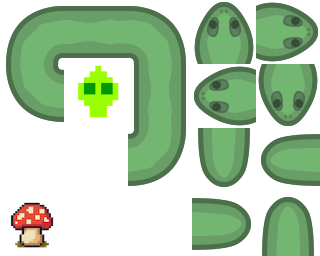
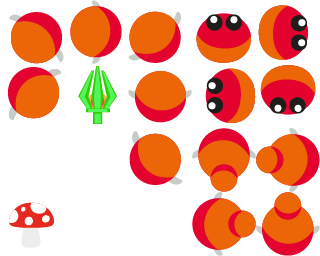
update graphics

diff --git a/viewer/sprites.py b/viewer/sprites.py
@@ -6,6 +6,8 @@ from .common import Directions, Centipede, Food, Stone, Blast, get_direction
 
 from dataclasses import dataclass
 
+BACKGROUND_COLOR = "black"
+
 @dataclass
 class Info:
     text: str
@@ -19,20 +21,20 @@ class GameInfoSprite(pygame.sprite.Sprite):
         self.line = line
         self.column = column
         self.image = pygame.Surface([WIDTH * SCALE, (self.line + 1) * SCALE])
-        self.image.set_colorkey("white")
+        self.image.set_colorkey(BACKGROUND_COLOR)
         self.rect = self.image.get_rect()
         self.SCALE = SCALE
 
     def update(self):
-        self.image.fill("white")
-        self.image.set_colorkey("white")
+        self.image.fill(BACKGROUND_COLOR)
+        self.image.set_colorkey(BACKGROUND_COLOR)
 
         self.image.blit(
             self.font.render(
                 self.info.text,
                 True,
                 "purple",
-                "white",
+                BACKGROUND_COLOR,
             ),
             (self.column * self.SCALE, self.line * self.SCALE),
         )
@@ -45,13 +47,13 @@ class GameStateSprite(pygame.sprite.Sprite):
         self.player = player
         self.pos = pos
         self.image = pygame.Surface([WIDTH * SCALE, (self.pos + 1) * SCALE])
-        self.image.set_colorkey("white")
+        self.image.set_colorkey(BACKGROUND_COLOR)
         self.rect = self.image.get_rect()
         self.SCALE = SCALE
 
     def update(self):
-        self.image.fill("white")
-        self.image.set_colorkey("white")
+        self.image.fill(BACKGROUND_COLOR)
+        self.image.set_colorkey(BACKGROUND_COLOR)
 
 
         self.image.blit(
@@ -59,7 +61,7 @@ class GameStateSprite(pygame.sprite.Sprite):
                 f"{self.player} : 0", # TODO score
                 True,
                 "purple",
-                "white",
+                BACKGROUND_COLOR,
             ),
             (0, self.pos * self.SCALE),
         )
@@ -79,8 +81,8 @@ class ScoreBoardSprite(pygame.sprite.Sprite):
         self.SCALE = SCALE
 
     def update(self):
-        self.image.fill("white")
-        self.image.set_colorkey("white")
+        self.image.fill(BACKGROUND_COLOR)
+        self.image.set_colorkey(BACKGROUND_COLOR)
 
         scale = lambda t: (int(t[0] * self.SCALE), int(t[1] * self.SCALE))
 
@@ -88,7 +90,7 @@ class ScoreBoardSprite(pygame.sprite.Sprite):
         table_surface.fill((70, 70, 70))
 
         table_surface.blit(
-            self.font.render("THE 10 BEST PLAYERS", True, "white"), scale((3, 1))
+            self.font.render("THE 10 BEST PLAYERS", True, BACKGROUND_COLOR), scale((3, 1))
         )
 
         table_surface.blit(self.font.render("RANK", True, "orange"), scale((1, 3)))
@@ -160,8 +162,8 @@ class StoneSprite(pygame.sprite.Sprite):
         self.update()
 
     def update(self):
-        self.image.fill("white")
-        self.image.set_colorkey("white")
+        self.image.fill(BACKGROUND_COLOR)
+        self.image.set_colorkey(BACKGROUND_COLOR)
 
         # Render Stone
         self.image.blit(
@@ -187,8 +189,8 @@ class BlastSprite(pygame.sprite.Sprite):
         self.update()
 
     def update(self):
-        self.image.fill("white")
-        self.image.set_colorkey("white")
+        self.image.fill(BACKGROUND_COLOR)
+        self.image.set_colorkey(BACKGROUND_COLOR)
 
         # Render Blast
         self.image.blit(
@@ -215,8 +217,8 @@ class FoodSprite(pygame.sprite.Sprite):
         self.update()
 
     def update(self):
-        self.image.fill("white")
-        self.image.set_colorkey("white")
+        self.image.fill(BACKGROUND_COLOR)
+        self.image.set_colorkey(BACKGROUND_COLOR)
 
         # Render Food
         self.image.blit(
@@ -242,8 +244,8 @@ class BugBlasterSprite(pygame.sprite.Sprite):
         self.update()
 
     def update(self):
-        self.image.fill("white")
-        self.image.set_colorkey("white")
+        self.image.fill(BACKGROUND_COLOR)
+        self.image.set_colorkey(BACKGROUND_COLOR)
 
         # Render Bug Blaster
         self.image.blit(
@@ -302,8 +304,8 @@ class CentipedeSprite(pygame.sprite.Sprite):
         self.rect = self.image.get_rect()
 
     def update(self):
-        self.image.fill("white")
-        self.image.set_colorkey("white")
+        self.image.fill(BACKGROUND_COLOR)
+        self.image.set_colorkey(BACKGROUND_COLOR)
 
         # Get Head
         prev_x, prev_y = self.centipede.body[0]

diff --git a/viewer.py b/viewer.py
@@ -21,6 +21,7 @@ from viewer.common import (
     int2dir,
 )
 from viewer.sprites import (
+    BACKGROUND_COLOR,
     BlastSprite,
     BugBlasterSprite,
     Info,
@@ -209,7 +210,7 @@ async def main(SCALE):
         new_game = False
 
         # Render Window
-        display.fill("white")
+        display.fill(BACKGROUND_COLOR)
 
         try:
             all_sprites.update()
